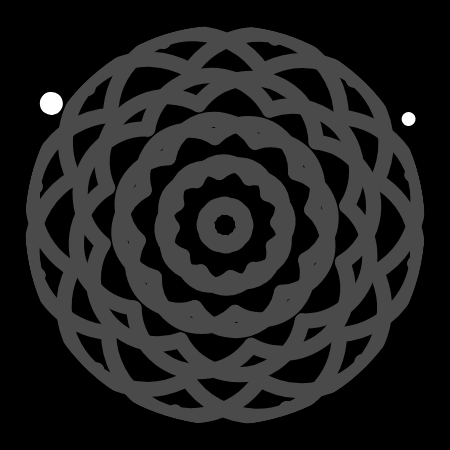
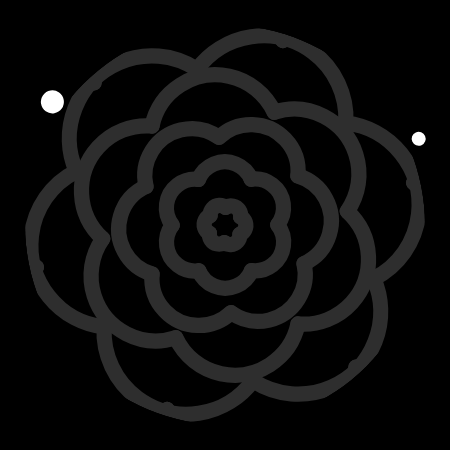
Interfence-Morph: ambient shows one still disc, dimmer
Ambient now shows only the seconds wheel's pattern in #2E2E2E. Ambient
renders at second 0, so that disc sits at 0 deg every update and never
turns; only the slow morph changes it.

Claude-Session: https://claude.ai/code/session_01KJ3go6Y4QGsUvwFFpG81FM

diff --git a/faces/interfence-morph/generate_xml.py b/faces/interfence-morph/generate_xml.py
@@ -138,7 +138,7 @@ EPS = 0.02         # rad; |curvature| floor so a straight side stays a finite ar
 
 BAND_R = 212       # bead track
 BAND_W = 26
-AMBIENT_DISC = '#FF4A4A4A'   # stationary pattern in ambient: dim grey, both discs
+AMBIENT_DISC = '#FF2E2E2E'   # stationary pattern in ambient: dim grey, seconds wheel only
 AMBIENT_BEAD = '#FFFFFFFF'
 WINDOW_R = BAND_R - BAND_W / 2
 
@@ -277,8 +277,10 @@ def build():
     # dual and film discs see-through; dim grey in ambient) and its MASK is the
     # rotating pattern drawn opaque white, flattened in a masked group of its
     # own so overlapping round caps can't double. The masks are opaque white,
-    # so alpha or luminance masking give the same result. In ambient the
-    # pattern stays: the wheels freeze at the minute and recolour to grey.
+    # so alpha or luminance masking give the same result. In ambient only
+    # the seconds wheel remains, in dim grey. Ambient renders on the minute,
+    # when [SECOND] is 0, so that disc sits at 0 deg every update and does
+    # not turn; only the slow morph changes it.
     discs = group(scene, 'discs')
     for name, angle, color in (('minute_wheel', MINUTE_WHEEL, LOWER),
                                ('seconds_wheel', SECONDS_WHEEL, UPPER)):
@@ -286,9 +288,10 @@ def build():
         live = group(layer, name + '_colour', renderMode='SOURCE')
         ambient(live)
         dot(draw(live), C, C, 2 * WINDOW_R + 2, fill=color)
-        dim = group(layer, name + '_ambient', renderMode='SOURCE', alpha=0)
-        element(dim, 'Variant', mode='AMBIENT', target='alpha', value=255)
-        dot(draw(dim), C, C, 2 * WINDOW_R + 2, fill=AMBIENT_DISC)
+        if name == 'seconds_wheel':     # ambient shows this disc only
+            dim = group(layer, name + '_ambient', renderMode='SOURCE', alpha=0)
+            element(dim, 'Variant', mode='AMBIENT', target='alpha', value=255)
+            dot(draw(dim), C, C, 2 * WINDOW_R + 2, fill=AMBIENT_DISC)
         shape = group(layer, name + '_shape', renderMode='MASK')
         disc(shape, name, angle, '#FFFFFFFF')
         dot(draw(shape, renderMode='MASK'), C, C, 2 * WINDOW_R + 2, fill='#FFFFFFFF')

diff --git a/faces/interfence-morph/notes.md b/faces/interfence-morph/notes.md
@@ -142,13 +142,14 @@ beads.
 Feedback: ambient should be the stationary current pattern, and the hour and
 minute markers needed to be more visible in both modes.
 
-- **Ambient** keeps both wheels at their current positions, recoloured to
-  dim grey (#4A4A4A) on black. The morph continues at each ambient update.
-  The ground, colour fields, rim track and seconds bead are hidden. The hour
-  and minute beads are solid white, and the minute bead steps once a minute.
-  This lights far more pixels than Google's roughly 15% ambient guidance, so
-  watch battery use and burn-in. The grey can be lowered in
-  `generate_xml.py` (`AMBIENT_DISC`).
+- **Ambient** shows only the seconds wheel's pattern, in dim grey (#2E2E2E) on
+  black. Ambient renders on the minute, when `[SECOND]` is 0, so that disc
+  sits at 0° on every update and never turns; only the slow morph changes it.
+  (The minute wheel would step 6° each minute.) Both wheels at #4A4A4A were
+  tried first and lit too much. The ground, colour fields, rim track, minute
+  wheel and seconds bead are hidden. The hour and minute beads are solid
+  white, and the minute bead steps once a minute. Adjust `AMBIENT_DISC` in
+  `generate_xml.py` if needed.
 - **Markers**: the rim track widened from 22 to 26 px (r 199–225). The hour
   bead grew from 17 to 23 px and the minute bead from 10 to 14 px, the rim
   dots are slightly larger, and the seconds bead is 6 px.
@@ -166,8 +167,8 @@ eight palettes at assorted times.
 - Confirm that the nested masked layers render (each pattern mask inside a
   wheel layer inside the window layer), and that Thursday Afternoon and Lux
   show see-through discs.
-- Confirm that the ambient pattern updates each minute and that its lit-pixel
-  load is acceptable.
+- Confirm that the ambient disc holds still (it relies on ambient updates
+  landing at second 0) and that its lit-pixel load is acceptable.
 - Confirm that the scaled groups keep their stroke widths.
 - Check that 156 expression-driven arcs hold the frame rate while the seconds
   wheel turns, and that the XML loads promptly. At about 500 KB it is larger
